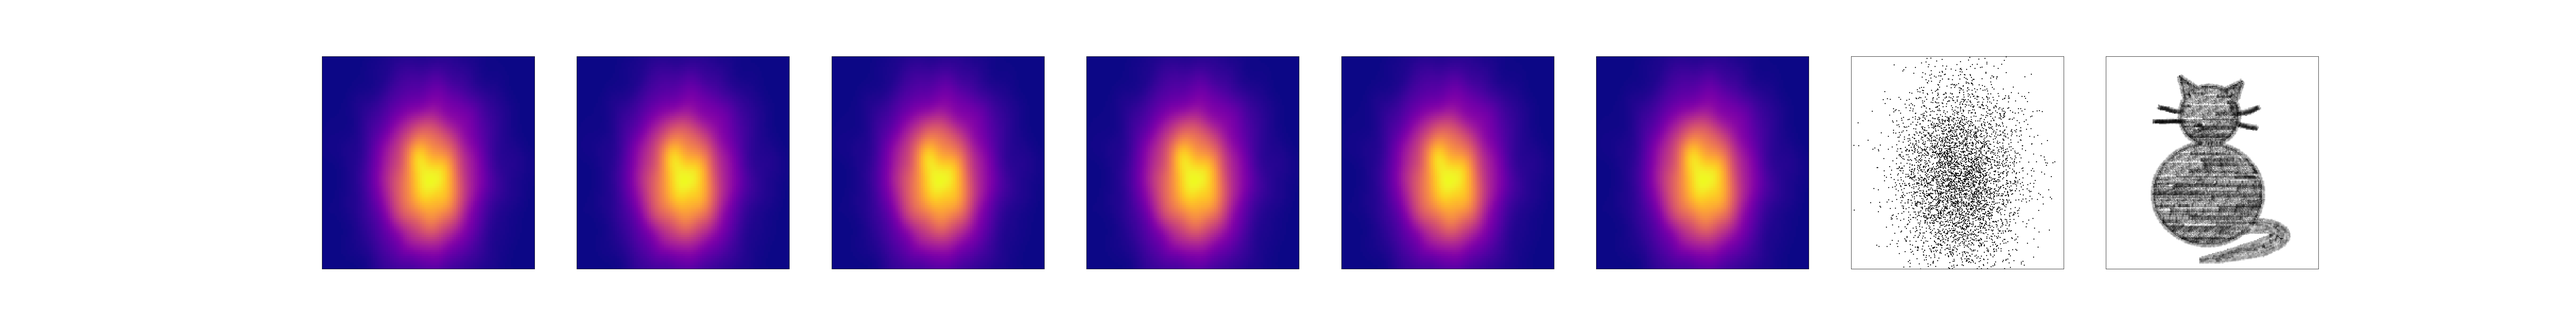
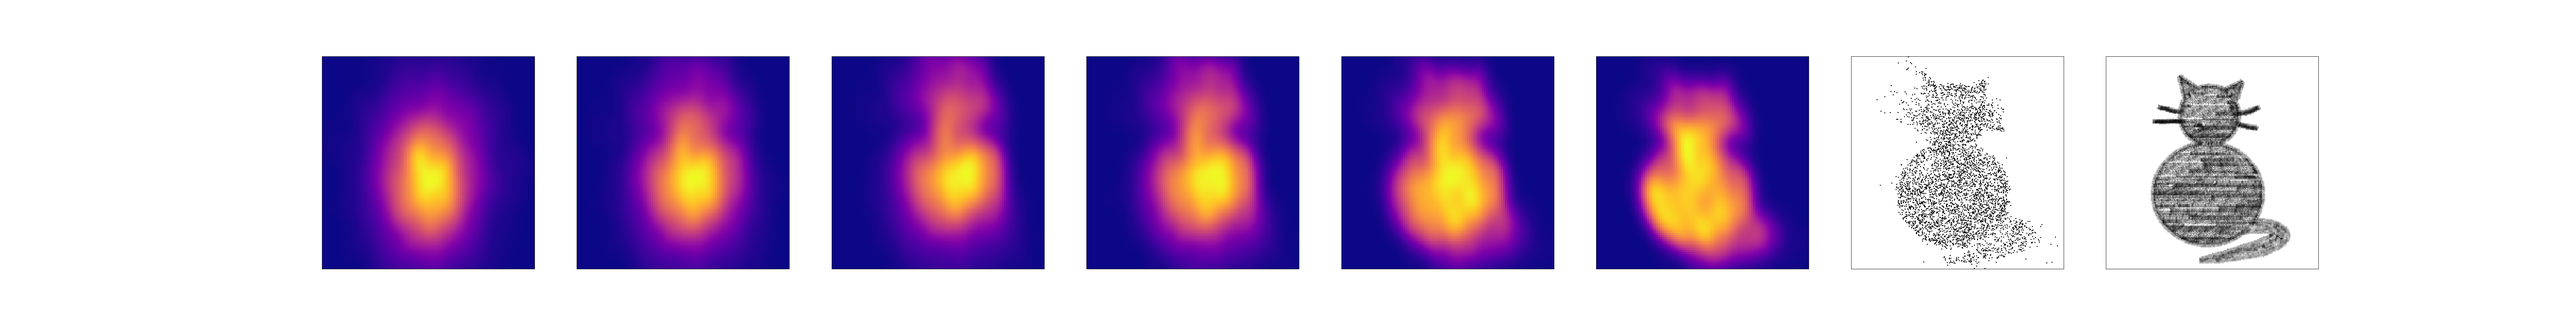
Plateau region observed for normalising flows

diff --git a/examples/generative/analysis.py b/examples/generative/analysis.py
@@ -3,6 +3,7 @@ import jax
 
 import jax.numpy as jnp
 import numpy as np
+import imageio.v2 as imageio
 
 import matplotlib.pyplot as plt
 import matplotlib.colors as mcolors
@@ -10,13 +11,14 @@ import matplotlib.colors as mcolors
 #%%
 ## Load the data (.npz files in the results folder)
 
-savefolder = "reults_1/"
-nb_runs = 15
+savefolder = "results_1/"
+Ts_traverse = np.logspace(-2, 2, 25)
+nb_runs = Ts_traverse.shape[0]
 
 Ts = []
 losses = []
-for i in range(nb_runs):
-    data = np.load(f"{savefolder}{i:05d}.npz")
+for el in Ts_traverse:
+    data = np.load(f"{savefolder}artefacts_T{el:0.2f}.npz")
 
     Ts.append(data['time_horizon'])
     losses.append(data['values'])
@@ -30,8 +32,11 @@ Ts = np.array(Ts)
 ## 2D imshow plot with the loss againts the epochs and time horizon T
 
 fig, ax = plt.subplots(1, 1, figsize=(10, 8))
-losses_plot = losses[:,:]
-pcm = ax.imshow(losses_plot, aspect='auto', cmap='turbo', interpolation='none', origin='lower', norm=mcolors.LogNorm(vmin=losses_plot.min(), vmax=losses_plot.max()))
+# losses_plot = np.where(losses<0, 0.5, losses)
+# losses_plot = np.clip(losses, 0.1, losses.max())[:10, :]
+losses_plot = np.clip(losses, 1.0, 1.5)[:, :]
+# pcm = ax.imshow(losses_plot, aspect='auto', cmap='nipy_spectral', interpolation='none', origin='lower', norm=mcolors.LogNorm(vmin=losses_plot.min(), vmax=losses_plot.max()))
+pcm = ax.imshow(losses_plot, aspect='auto', cmap='nipy_spectral', interpolation='none', origin='lower')
 
 ## Add colorbar
 cbar = fig.colorbar(pcm, ax=ax, label='MSE')
@@ -47,7 +52,7 @@ ax.set_title('Loss Evolution With Various Time Horizons')
 ## Set y ticks and labels to the time horizon
 Ts_ticks = np.linspace(Ts.min(), Ts.max(), 5)
 ax.set_yticks(np.arange(len(Ts))[::len(Ts)//4])
-ax.set_yticklabels(Ts_ticks)
+ax.set_yticklabels([f'{el:.2f}' for el in Ts_ticks])
 
 plt.savefig(f"{savefolder}loss_imshow.png", dpi=300, bbox_inches='tight')
 # %%
@@ -60,11 +65,25 @@ ax.plot(losses[50], label=f'T = {Ts[plot_id]:.2f}')
 ax.set_xlabel('Epoch')
 # ax.set_ylabel('MSE')
 ax.set_yscale('log')
-ax.set_title(f'Loss Curve for T = {Ts[plot_id]:.1f}')
+ax.set_title(f'Loss Curve for T = {Ts[plot_id]:.2f}')
 
 plt.legend()
 plt.savefig(f"{savefolder}loss_curve_{Ts[plot_id]}.png", dpi=300, bbox_inches='tight')
 
 
+# %%
 
+## Plot every cat trajectory for every time horizon T
 
+fig, ax = plt.subplots(nb_runs, 1, figsize=(10, 1*nb_runs), sharex=True)
+
+# print(ax.shape)
+
+for plot_id, el in enumerate(Ts_traverse[:]):
+    img = imageio.imread(f"{savefolder}cat_{el:0.2f}.png")
+    ax[plot_id].imshow(img)
+    ax[plot_id].axis('off')
+    ax[plot_id].set_title(f'T = {el:.2f}', fontsize=10, y=0.8)
+
+## Save the figure
+plt.savefig(f"{savefolder}ALL_cat_trajectories.png", dpi=300, bbox_inches='tight')

diff --git a/examples/generative/cont_norm_flow.py b/examples/generative/cont_norm_flow.py
@@ -438,7 +438,7 @@ while step < steps:
     end = time.time()
     values.append(value)
     if (step % print_every) == 0 or step == steps - 1:
-        print(f"Step: {step}, Loss: {value}, Computation time: {end - start}")
+        print(f"Step: {step}, Loss: {value}, Computation time: {end - start}", flush=True)
 
 values = jnp.stack(values)
 num_samples = 5000
@@ -482,7 +482,7 @@ for i, (ax, density) in enumerate(zip(axs, densities)):
     ax.set_xticks([])
     ax.set_yticks([])
 plt.savefig(out_path)
-plt.show()
+# plt.show()
 
 
 #%%
@@ -506,3 +506,4 @@ eqx.tree_serialise_leaves(f"{savefolder}cnf_model_T{T_hrz:0.2f}.eqx", model)
 ## Save the values in a npz
 jnp.savez(f"{savefolder}artefacts_T{T_hrz:0.2f}.npz", values=values, densities=jnp.stack(densities), time_horizon=jnp.array(T_hrz))
 
+print()

diff --git a/examples/generative/datagen.py b/examples/generative/datagen.py
@@ -4,7 +4,7 @@ import os
 import numpy as np
 
 ## Generate multiple time horizons Ts
-Ts = np.logspace(-2, 1, 15)
+Ts = np.logspace(-2, 2, 25)
 
 ## Run the main script to generate the data
 for T_id, T in enumerate(Ts):
@@ -15,4 +15,4 @@ for T_id, T in enumerate(Ts):
 
 # %%
 # import numpy as np
-# np.logspace(-2, 1, 15)
+# np.logspace(-2, 2, 25)
